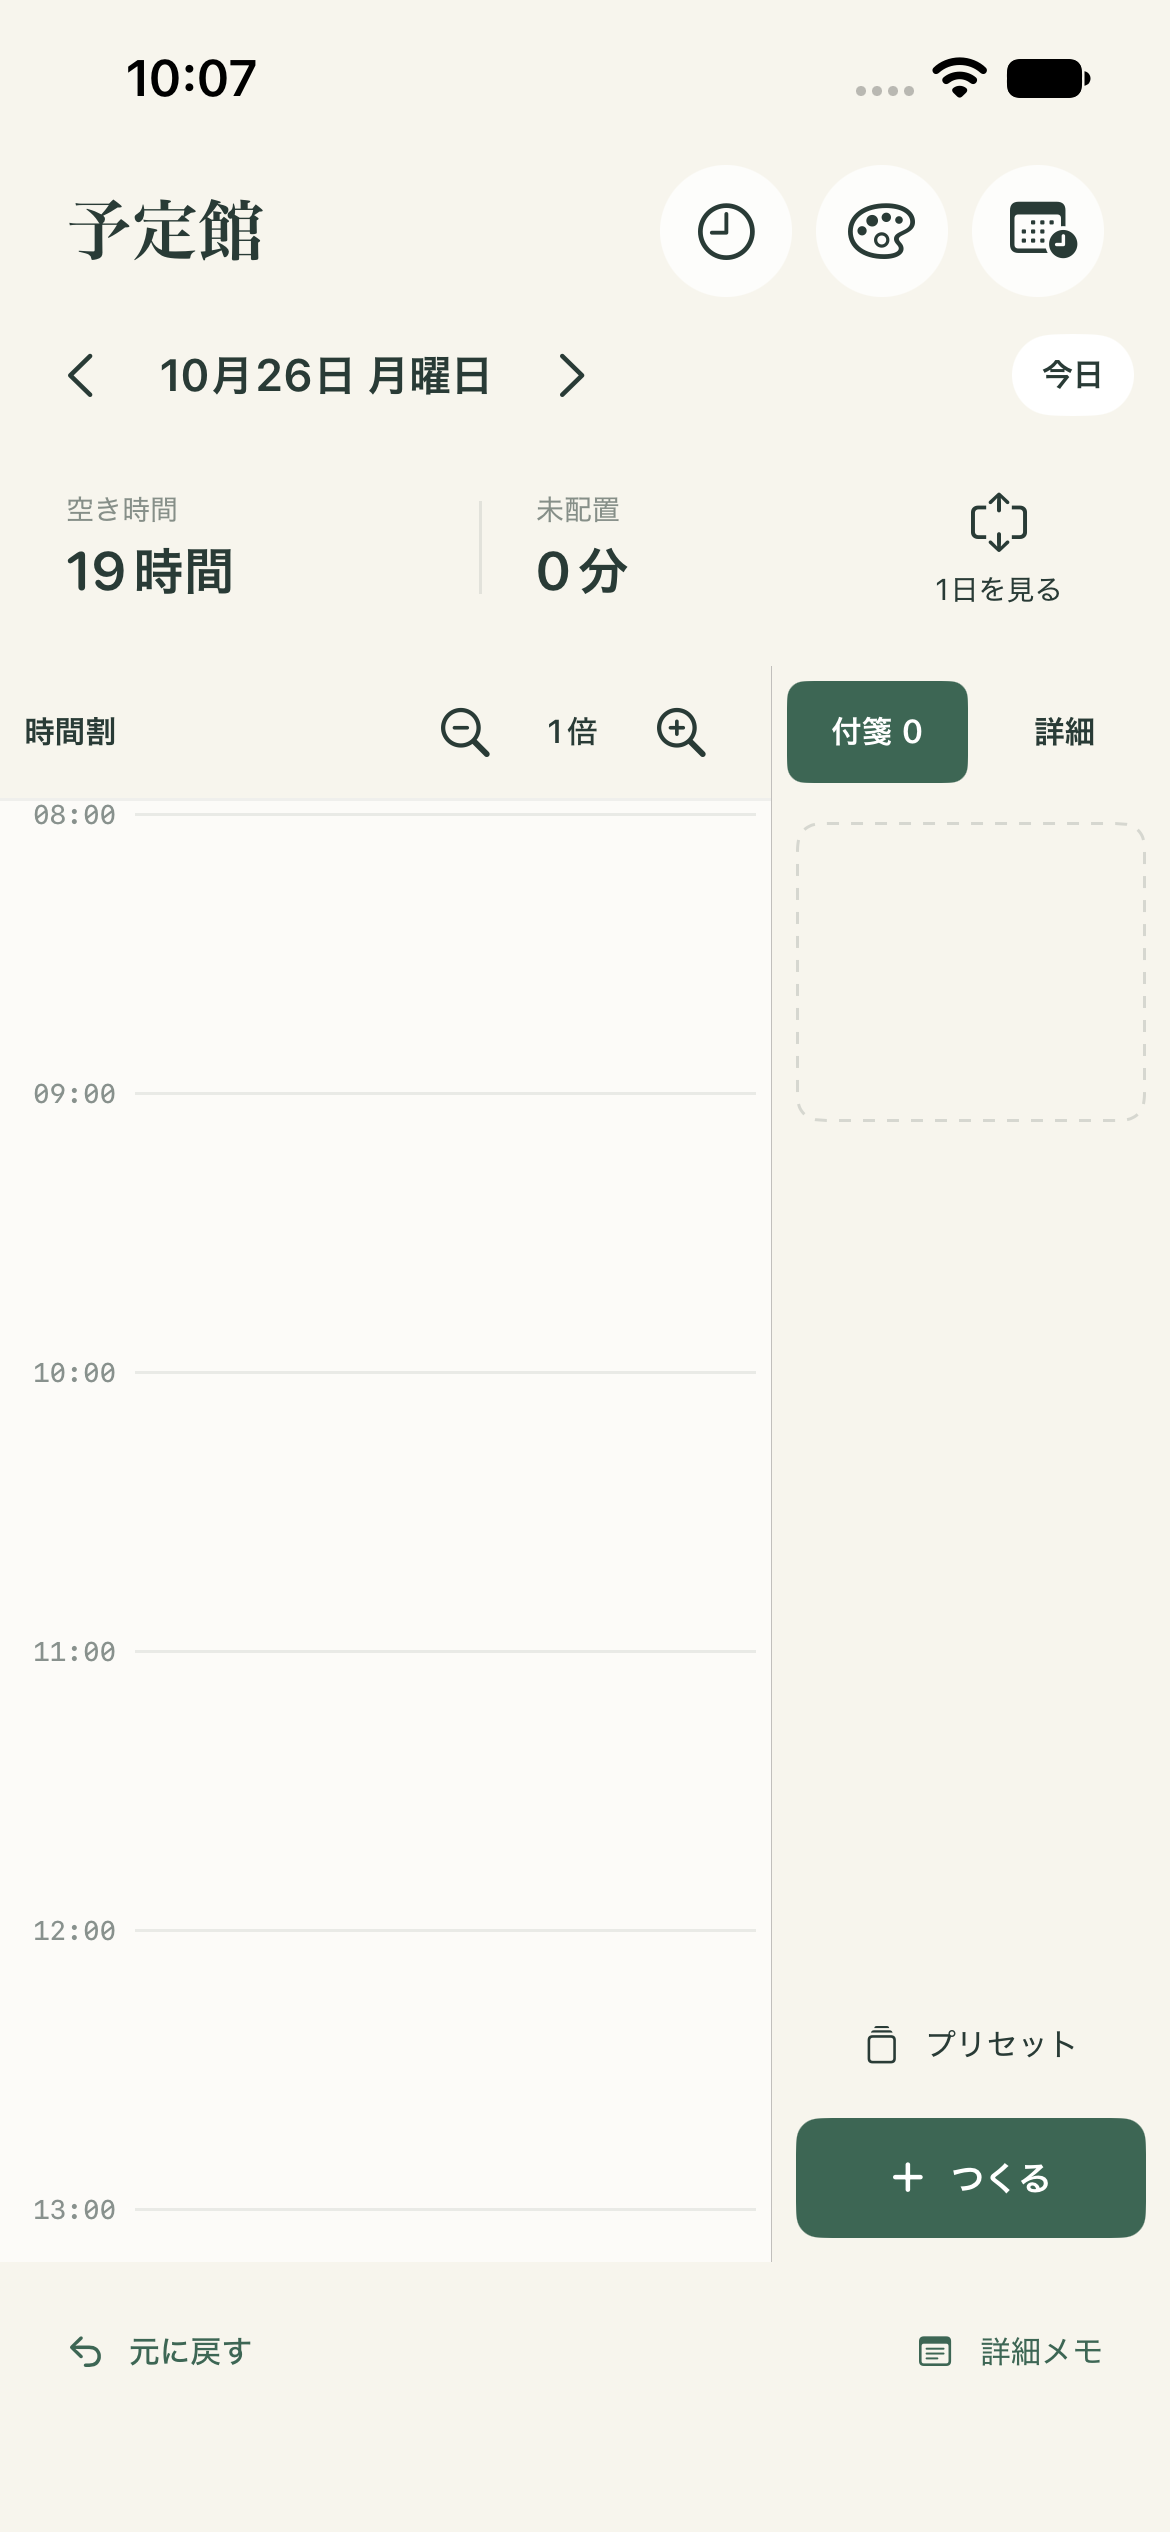
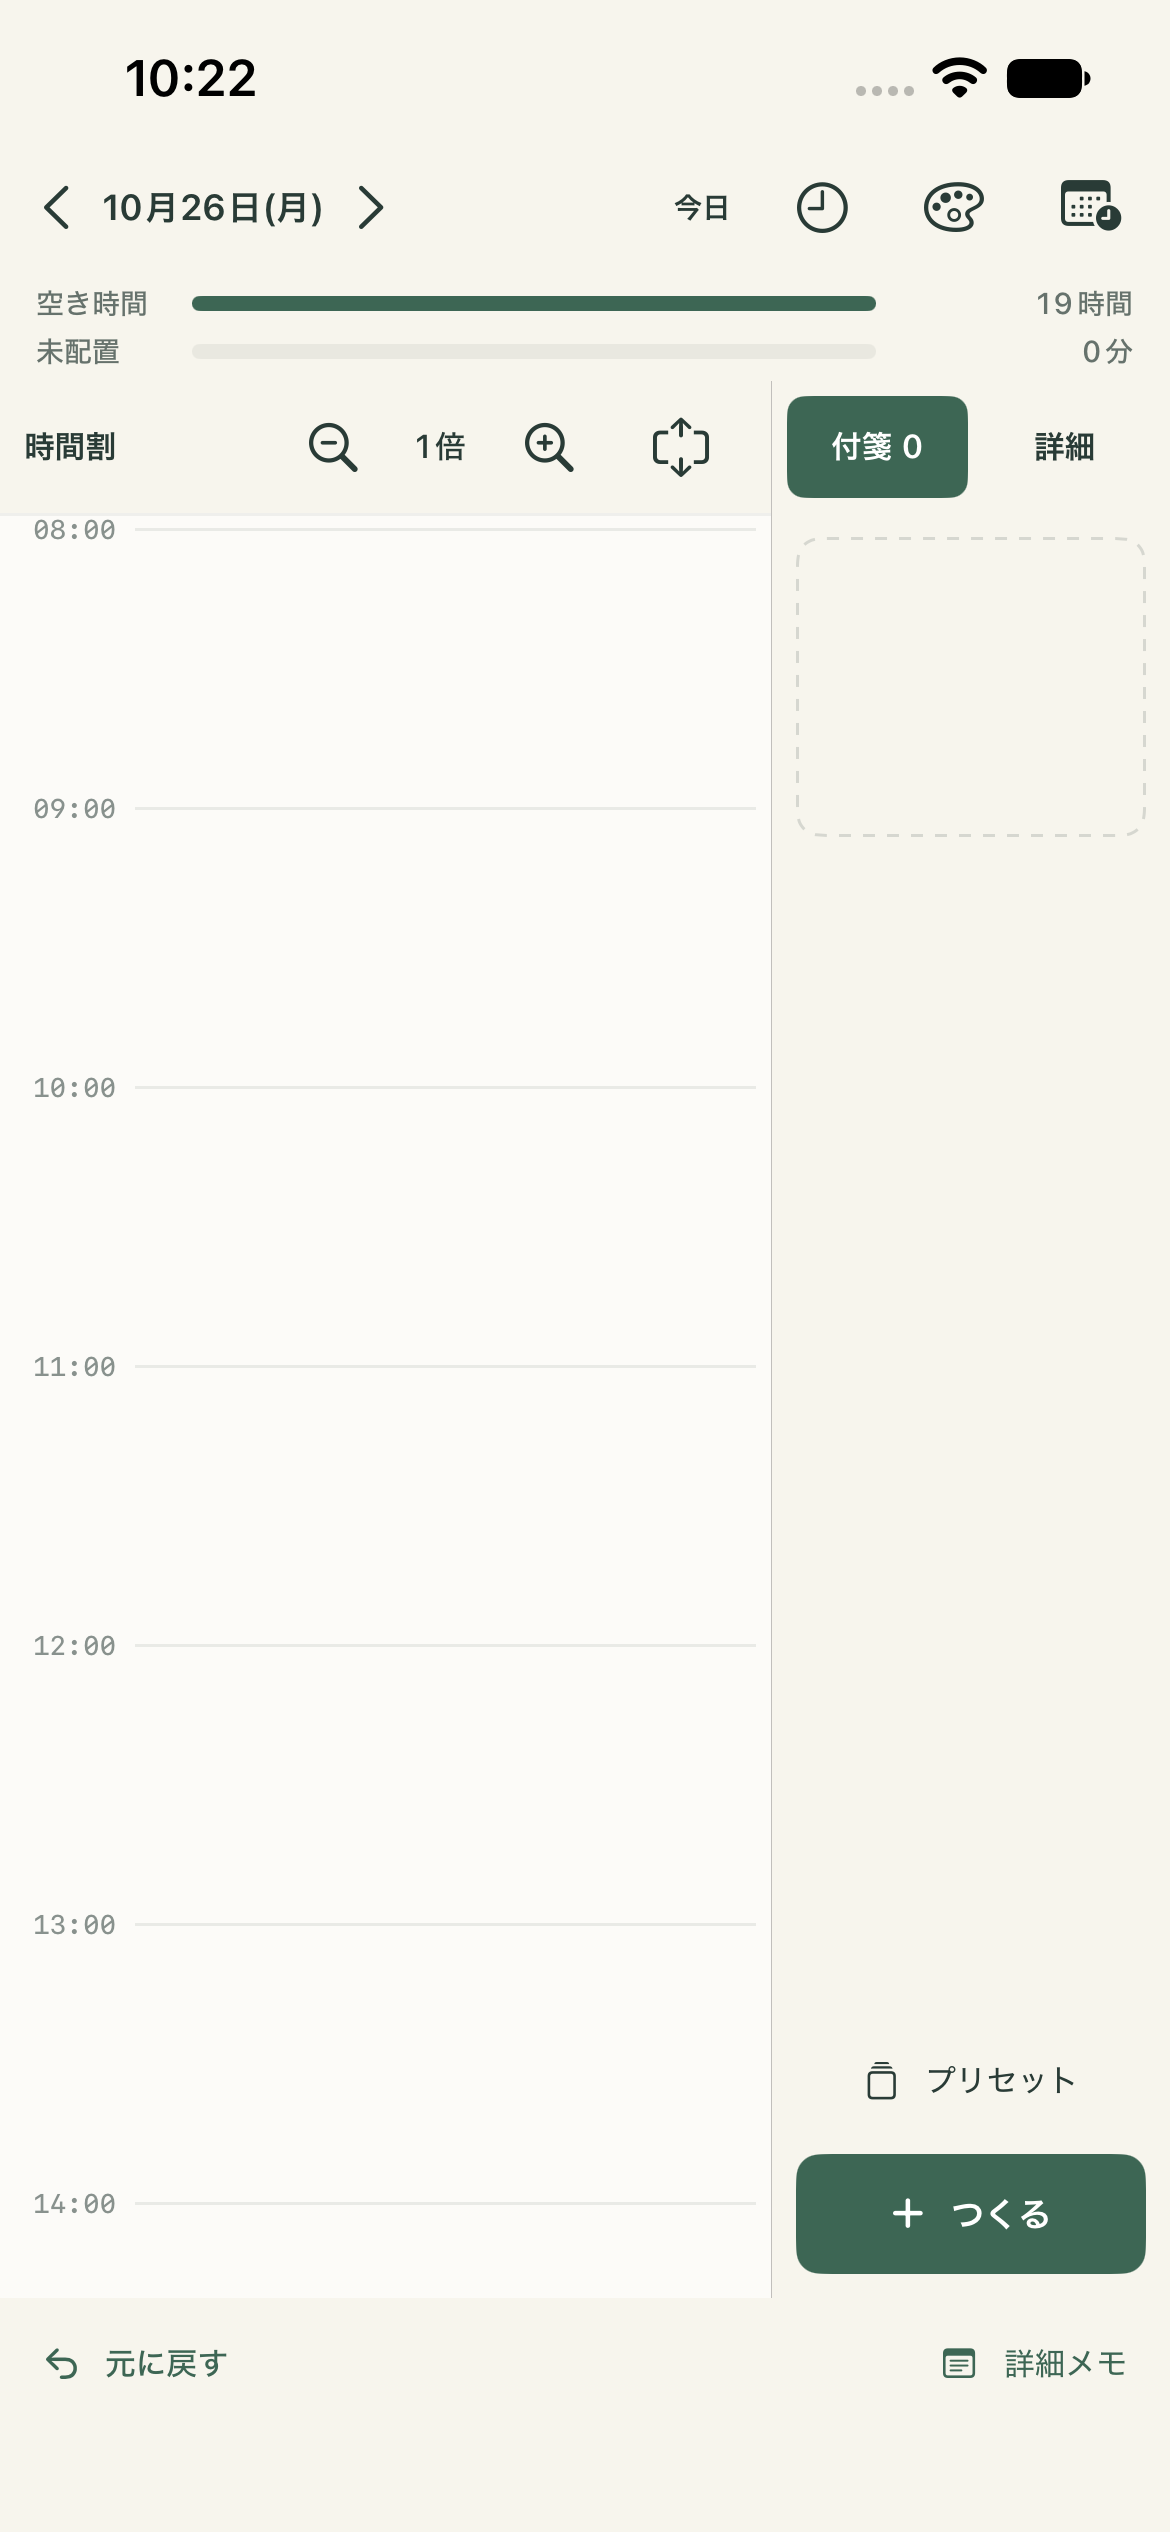
Compact planner controls to expand the timeline viewport

diff --git a/ios/Yoteikan/PlannerView.swift b/ios/Yoteikan/PlannerView.swift
@@ -64,16 +64,11 @@ struct PlannerView: View {
         GeometryReader { geometry in
             let wide = geometry.size.width >= 700
         VStack(spacing: 0) {
-            if wide {
-                HStack(spacing: 0) { header.frame(width: 310); dateBar }
-            } else {
-            header
-            dateBar
-            }
-            stats(compact: wide)
+            HStack(spacing: 0) { dateBar; header }.padding(.horizontal, 6)
+            stats
             if !calendar.connected && !plans.demo {
                 Button { showCalendar = true } label: {
-                    HStack(spacing: 8) { Image(systemName: "calendar.badge.plus"); Text("カレンダーを接続").font(.system(size: 12, weight: .medium)); Spacer(); Image(systemName: "chevron.right") }.padding(.horizontal, 20).padding(.vertical, 10).foregroundStyle(accent)
+                    HStack(spacing: 8) { Image(systemName: "calendar.badge.plus"); Text("カレンダーを接続").font(.system(size: 11, weight: .medium)); Spacer(); Image(systemName: "chevron.right") }.padding(.horizontal, 12).padding(.vertical, 5).foregroundStyle(accent)
                 }.accessibilityIdentifier("calendarConnectBanner")
             }
             if !fixed.filter(\.allDay).isEmpty {
@@ -186,46 +181,35 @@ struct PlannerView: View {
             .accessibilityValue(sideShowsDetails == details ? "選択中" : "")
     }
     private var header: some View {
-        HStack {
-            if plans.demo {
-                Text("デモ").font(.system(size: 9)).padding(.horizontal, 6).padding(.vertical, 2)
-                    .background(tones[1], in: Capsule())
-            }
-            Spacer()
+        HStack(spacing: 0) {
             Button { showHours = true } label: {
-                Image(systemName: "clock").font(.system(size: 19))
-                    .frame(width: 44, height: 44).background(.white.opacity(0.8), in: Circle())
+                Image(systemName: "clock").font(.system(size: 17)).frame(width: 44, height: 44)
             }.accessibilityLabel("計画の時間帯").accessibilityIdentifier("hoursSettings")
             Button { showColors = true } label: {
-                Image(systemName: "paintpalette").font(.system(size: 19))
-                    .frame(width: 44, height: 44).background(.white.opacity(0.8), in: Circle())
+                Image(systemName: "paintpalette").font(.system(size: 17)).frame(width: 44, height: 44)
             }.accessibilityLabel("付箋の色を設定").accessibilityIdentifier("colorSettings")
             Button { showCalendar = true } label: {
-                Image(systemName: "calendar.badge.clock").font(.system(size: 19))
-                    .frame(width: 44, height: 44).background(.white.opacity(0.8), in: Circle())
+                Image(systemName: "calendar.badge.clock").font(.system(size: 17)).frame(width: 44, height: 44)
             }.accessibilityLabel("カレンダー設定").accessibilityIdentifier("calendarSettings")
-        }.padding(.horizontal, 22).padding(.top, 8).padding(.bottom, 8)
+        }
     }
     private var dateBar: some View {
-        HStack(spacing: 9) {
-            Button { changeDay(-1) } label: { Image(systemName: "chevron.left").frame(width: 32, height: 36) }.accessibilityLabel("前の日")
-            Text(plans.date, format: .dateTime.month().day().weekday(.wide)).font(.system(size: 15, weight: .semibold)).accessibilityIdentifier("selectedDate")
-            Button { changeDay(1) } label: { Image(systemName: "chevron.right").frame(width: 32, height: 36) }.accessibilityLabel("次の日")
+        HStack(spacing: 0) {
+            Button { changeDay(-1) } label: { Image(systemName: "chevron.left").frame(width: 28, height: 44) }.accessibilityLabel("前の日")
+            Text(plans.date, format: .dateTime.month().day().weekday(.abbreviated)).font(.system(size: 12, weight: .semibold)).lineLimit(1).minimumScaleFactor(0.75).accessibilityIdentifier("selectedDate")
+            Button { changeDay(1) } label: { Image(systemName: "chevron.right").frame(width: 28, height: 44) }.accessibilityLabel("次の日")
             Spacer(minLength: 0)
-            Button { plans.date = Date() } label: { Text("今日").font(.system(size: 11, weight: .semibold)).padding(.horizontal, 10).padding(.vertical, 7).background(.white, in: Capsule()) }.accessibilityIdentifier("todayButton")
-        }.padding(.horizontal, 12)
+            Button { plans.date = Date() } label: { Text("今日").font(.system(size: 10, weight: .semibold)).frame(width: 36, height: 44) }.accessibilityIdentifier("todayButton")
+        }
             .contentShape(Rectangle())
             .simultaneousGesture(daySwipeGesture)
             .accessibilityElement(children: .contain).accessibilityIdentifier("dayNavigation")
     }
-    private func stats(compact: Bool) -> some View {
-        HStack(spacing: 14) {
-            VStack(spacing: compact ? 5 : 8) {
+    private var stats: some View {
+            VStack(spacing: 4) {
                 timeBar("空き時間", minutes: plans.hours.totalMinutes - occupied, color: accent, identifier: "freeTimeBar")
                 timeBar("未配置", minutes: inbox.reduce(0) { $0 + $1.minutes }, color: Color(red: 0.73, green: 0.55, blue: 0.24), identifier: "unplacedTimeBar")
-            }
-            Button { overview.toggle() } label: { VStack(spacing: 2) { Image(systemName: overview ? "plus.magnifyingglass" : "rectangle.expand.vertical").font(.system(size: 17)); Text(overview ? "拡大する" : "1日を見る").font(.system(size: 10)) }.frame(width: 60, height: 44) }.accessibilityIdentifier("zoomToggle")
-        }.padding(.horizontal, 18).padding(.vertical, compact ? 2 : 6)
+            }.padding(.horizontal, 12).padding(.vertical, 4)
     }
     private func timeBar(_ title: String, minutes: Int, color: Color, identifier: String) -> some View {
         HStack(spacing: 8) {
@@ -243,6 +227,7 @@ struct PlannerView: View {
     private var zoomControls: some View {
         HStack(spacing: 0) {
             Text("時間割").font(.system(size: 11, weight: .semibold))
+            if plans.demo { Text("デモ").font(.system(size: 8)).padding(3).background(tones[1], in: Capsule()) }
             Spacer(minLength: 0)
             Button { zoomAnchor = selectedTask?.start.map { $0 / 60 } ?? visibleHour ?? initialHour; zoomLevel -= 1 } label: {
                 Image(systemName: "minus.magnifyingglass").frame(width: 44, height: 44)
@@ -253,6 +238,9 @@ struct PlannerView: View {
             Button { if overview { overview = false } else { zoomAnchor = selectedTask?.start.map { $0 / 60 } ?? visibleHour ?? initialHour; zoomLevel += 1 } } label: {
                 Image(systemName: "plus.magnifyingglass").frame(width: 44, height: 44)
             }.disabled(!overview && zoomLevel == zoomSteps.count - 1).accessibilityLabel("時間割を拡大").accessibilityIdentifier("zoomIn")
+            Button { overview.toggle() } label: {
+                Image(systemName: overview ? "plus.magnifyingglass" : "rectangle.expand.vertical").frame(width: 44, height: 44)
+            }.accessibilityLabel(overview ? "拡大する" : "1日を見る").accessibilityIdentifier("zoomToggle")
         }.padding(.horizontal, 8)
     }
     private func cardHeight(_ minutes: Int) -> CGFloat {
@@ -491,7 +479,7 @@ struct PlannerView: View {
                 Button { plans.put(id, at: nil); selected = nil } label: { Image(systemName: "tray.and.arrow.down").frame(width: 38, height: 42) }.accessibilityLabel("未配置に戻す").accessibilityIdentifier("unplaceButton")
                 Button { editing = task } label: { Image(systemName: "slider.horizontal.3").frame(width: 38, height: 42) }.accessibilityLabel("付箋を編集").accessibilityIdentifier("editButton")
             }
-        }.padding(.horizontal, 22).padding(.top, 9).padding(.bottom, 5).background(paper)
+        }.padding(.horizontal, 14).padding(.vertical, 1).background(paper)
     }
     private var daySwipeGesture: some Gesture {
         DragGesture(minimumDistance: 30).onEnded { value in

diff --git a/ios/YoteikanUITests/YoteikanUITests.swift b/ios/YoteikanUITests/YoteikanUITests.swift
@@ -10,6 +10,8 @@ final class YoteikanUITests: XCTestCase {
         XCTAssertFalse(app.staticTexts["予定館"].exists)
         XCTAssertEqual(app.descendants(matching: .any).matching(identifier: "freeTimeBar").firstMatch.value as? String, "15時間30分")
         XCTAssertEqual(app.descendants(matching: .any).matching(identifier: "unplacedTimeBar").firstMatch.value as? String, "1時間5分")
+        XCTAssertLessThan(app.scrollViews["timeline"].frame.minY, app.frame.height * 0.25)
+        XCTAssertGreaterThan(app.scrollViews["timeline"].frame.height, app.frame.height * 0.65)
         shot("01-day-planner")
         app.buttons["showStickyPool"].tap(); app.buttons["presetsButton"].tap()
         XCTAssertTrue(app.buttons["preset-読書"].waitForExistence(timeout: 3)); app.buttons["preset-読書"].tap()

diff --git a/README.md b/README.md
@@ -9,6 +9,7 @@
 - 内容・所要時間・色・メモ付きの付箋を作成。
 - 左の時間割・右の付箋置き場で操作。横画面では中央に詳細メモを表示。
 - 空き時間と未配置時間は、小さな時間表示を添えた横棒グラフで確認。
+- 日付と設定を1行にまとめ、時間割の表示領域を確保。
 - 色と名前を自由に追加・編集・削除。付箋とプリセットで共通利用。
 - 長押しドラッグで配置し、選択後は右上の↕をドラッグして開始時刻を変更。下端のつまみで延長・短縮。
 - 変更するのは触っている1枚だけ。ほかの付箋や会議は自動で動かない。
@@ -41,7 +42,7 @@ macOSと、iOS 17以降をビルドできるXcodeが必要です。
 
 日付欄やタイムラインの余白を左へスワイプすると翌日、右へスワイプすると前日へ移動します。「今日」で当日に戻れます。
 
-時間割の上にある＋／−で1・2・4・8倍に拡大・縮小できます。4倍以上では5分刻みの目盛りを表示し、8倍では5分の付箋もつまみで移動・伸縮できます。小さい表示では付箋を時間枠内に収め、入りきらない文字やつまみを省略します。「1日を見る」から戻ると直前の拡大率に戻ります。拡大率はアプリを起動し直すと1倍になります。
+時間割の上にある＋／−で1・2・4・8倍に拡大・縮小できます。その右の全日表示アイコンで1日を見渡し、再度押すと直前の拡大率に戻ります。4倍以上では5分刻みの目盛りを表示し、8倍では5分の付箋もつまみで移動・伸縮できます。小さい表示では付箋を時間枠内に収め、入りきらない文字やつまみを省略します。拡大率はアプリを起動し直すと1倍になります。
 
 右上のパレットで、色と名前を追加・編集できます。色はカラーピッカーまたは6桁のカラーコードで指定します。削除するときは付け替え先を選び、保存すると全日付の付箋・プリセットに反映されます。最後の1色は削除できません。キャンセルで編集を破棄し、「元に戻す」で保存前に戻せます。付箋の内容や時間は保持されます。
 

diff --git a/docs/verification.md b/docs/verification.md
@@ -2,7 +2,16 @@
 
 2026年10月25日。iPhone 17eシミュレーター / iOS 27.0で確認しました。
 
-前回の拡大率・短時間予定までに、ユニットテスト17件・UI操作テスト21件の計38件の成功を確認しました（追加・再実行を含む）。今回の上部表示変更では関連するUI操作4件を再確認しています。スクリーンショット抽出・一覧作成ツールはGoで実装しています。Pythonへの依存はありません。
+拡大率・短時間予定までに、ユニットテスト17件・UI操作テスト21件の計38件の成功を確認しました（追加・再実行を含む）。今回の操作列の圧縮では関連するUI操作6件を再確認しています。スクリーンショット抽出・一覧作成ツールはGoで実装しています。Pythonへの依存はありません。
+
+## タイムラインの表示領域を拡大
+
+- 日付と設定を1行に統合し、全日表示を拡大率の操作列へ移動。
+- 時間グラフ・下部バー・未接続案内の余白を圧縮。設定と付箋／詳細の操作を保持。
+- iPhone 17eの縦画面デモで、タイムラインの高さは510から594ポイントへ84ポイント増加（約16%）。開始位置は244から172ポイントへ移動。変更前後の実際の画面画像を比較。
+- UIテストで、タイムラインの開始が画面上端から25%未満、高さが画面全体の65%以上であることを確認。
+- 日付スワイプ・時間帯設定・詳細切り替え・横画面3ゾーン・5分予定の移動と伸縮を含む6件が成功。
+- 検証結果: artifacts/CompactToolbar.xcresult / artifacts/compact-toolbar.log。実機確認は未実施。
 
 ## 上部の見出しと時間表示を簡素化
 

diff --git a/docs/design.md b/docs/design.md
@@ -38,6 +38,8 @@
 
 画面上部にアプリ名の見出しは置かず、時間帯・色・カレンダーの操作を残す。空き時間と未配置時間の棒は、設定した計画時間全体を共通の基準とする。空き時間は固定予定と配置済み付箋の占有時間を差し引き、未配置時間はその日の未配置付箋を合計する。未配置が計画時間を超える場合は棒を全幅で止め、時間の数値は実際の合計を表示する。0分の棒は背景のみとなる。
 
+日付移動・今日・時間帯・色・カレンダーを高さ44ポイントの1行にまとめる。曜日は短い表記とし、設定ボタンの円形背景を省く。時間のグラフはその下の2本にまとめ、全日表示は時間割の拡大率操作列へ移す。デモ表記は時間割の見出しに添える。右の付箋／詳細切り替えと同じ高さで操作列を揃え、下部バーも上下余白を減らす。操作を隠すことなくタイムラインの縦幅を確保する。
+
 | 操作 | 結果 |
 |---|---|
 | 未配置の付箋を長押しして時間割へドラッグ | 所要時間を保ったまま配置 |

diff --git a/docs/screenshots/README.md b/docs/screenshots/README.md
@@ -2,7 +2,7 @@
 
 iPhone 17eシミュレーター / iOS 27.0でXCTestを使って実際に操作し、2026年10月25日に撮影しました。デモ表記付きの画面はサンプル計画、カレンダー画面はEventKitに登録した検証用予定です。
 
-画面1・2・16・17・20・22・23は、アプリ名の見出しを外し、時間の横棒グラフに変更した確認画面です。そのほかは拡大率追加時の確認画面です。縦2分割・詳細メモ・横3分割・右側の詳細表示、時間帯設定、移動つまみ、日付スワイプ、色の追加・編集・削除を含みます。
+画面1・2・10・16・17・20・21・22・23は、上部の操作列を圧縮し、タイムラインを広げた確認画面です。そのほかは拡大率追加時の確認画面です。縦2分割・詳細メモ・横3分割・右側の詳細表示、時間帯設定、移動つまみ、日付スワイプ、色の追加・編集・削除を含みます。
 
 ## 1日の計画
 
